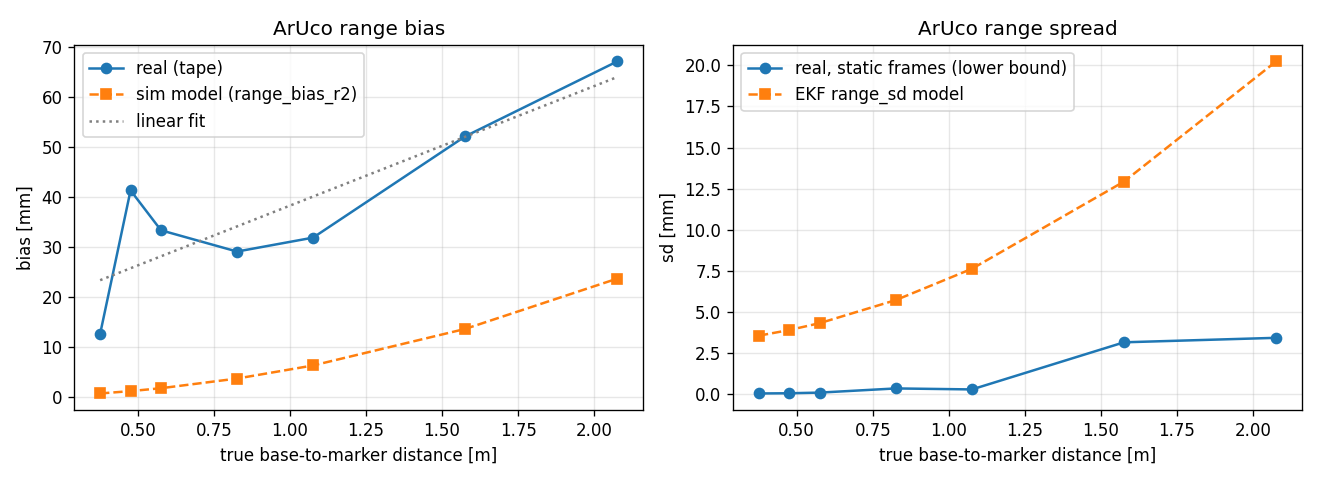
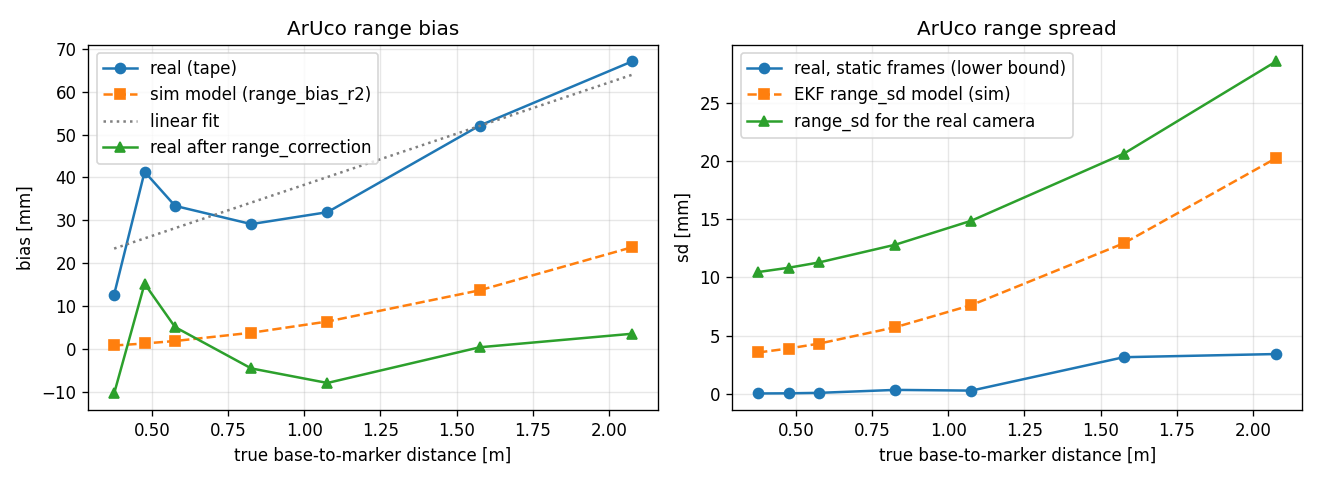
Correct the real camera's ArUco range bias in perception
The real camera reads marker ranges long by about 14 mm + 2.4 % (tape
distances 0.38-2.08 m, results/hardware/aruco_cam*). The fit is stored as
"range_correction" in config/camera_real.json (experiments/aruco_real_noise.py
--write) and removed in aruco.measure, so the EKF and docking both get
corrected ranges (now within +-1 cm of the tape).

- EKF: load_estimation_config(camera=...) sets range_bias_r2 to 0 and uses the
  camera's range_sd when the camera file corrects its own bias (no sim bias
  subtracted twice); main.py passes the camera file.
- IBVS: p* is drawn at the range PnP reads at the true stop range, so the
  robot stops at 0.356 m instead of ~2 cm closer.
- The sim camera file has no range_correction: sim runs are unchanged
  (corridor and lab track dock, control_test and estimation_test pass).

diff --git a/experiments/aruco_real_noise.py b/experiments/aruco_real_noise.py
@@ -1,6 +1,7 @@
 """ArUco range on the real camera against tape-measured distances: bias and noise for the EKF's Rn.
 
-    python experiments/aruco_real_noise.py      # reads results/hardware/aruco_cam<d>m/, marker ID 0
+    python experiments/aruco_real_noise.py           # reads results/hardware/aruco_cam<d>m/, marker ID 0
+    python experiments/aruco_real_noise.py --write   # also stores the range correction in config/camera_real.json
 
 Each folder holds frames saved by capture_frames.py with the robot looking straight at the marker,
 <d> = tape distance from the camera lens to the marker face [m]. The camera is 0.076 m ahead of the base
@@ -11,8 +12,16 @@ The frames at one distance show a static scene, so the sd is pixel noise only an
 the bias across distances is what calibration (K, distortion, printed size) leaves behind.
 A repeat set is a folder with a suffix (aruco_cam0.5m_v2): it is listed too, and the latest set at
 each distance replaces the earlier ones in the fit, the csv and the plot.
+The bias is fitted on the raw PnP range (measure without a correction) as bias_m + bias_per_m * x_true,
+and the range sd for the EKF as a + b r^2: a = the rms residual of that fit (tape placement and what the
+straight line cannot follow), b = the W3 corner-noise model at 0.3 px (aruco.sigma_range_model; the
+static frames are well below it). --write stores both as "range_correction" in config/camera_real.json;
+aruco.load_range_correction reads it there, so aruco.measure hands corrected ranges to the EKF and docking,
+and models.load_estimation_config(camera=...) swaps in this range sd and drops the sim's range_bias_r2.
+Run it after camera_pitch.py --write (the fit uses T_BC). The sim file has no correction and is unchanged.
 Compares with the sim model in config/estimation.json and writes results/aruco_noise_real.csv / .png.
 """
+import argparse
 import csv
 import json
 import re
@@ -31,14 +40,15 @@ import matplotlib.pyplot as plt                                 # noqa: E402
 from src.perception import aruco, camera                        # noqa: E402
 from src.robot.sim_robot import PROJECT_ROOT                    # noqa: E402
 
+CAMERA_FILE = PROJECT_ROOT / "config" / "camera_real.json"
 CAM_AHEAD = aruco.T_BC.t[0]      # 0.076 m, camera ahead of the base origin
 
 
-def measure_folder(folder, K, dist, T_BC):
+def measure_folder(folder, K, dist, T_BC, range_correction=None):
     rows = []
     for p in sorted(folder.glob("*.png")):
         rgb = cv2.cvtColor(cv2.imread(str(p)), cv2.COLOR_BGR2RGB)
-        m = aruco.measure(rgb, K, dist, T_BC=T_BC, marker_id=0)
+        m = aruco.measure(rgb, K, dist, T_BC=T_BC, marker_id=0, range_correction=range_correction)
         if m is not None:
             rows.append(dict(x=m["T_BM"].t[0], z=m["T_BM"].t[2], r=m["z"][0], b=np.rad2deg(m["z"][1]),
                              size_px=m["size_px"], ambiguous=m["ambiguous"]))
@@ -46,22 +56,28 @@ def measure_folder(folder, K, dist, T_BC):
 
 
 def main():
-    K, dist, size = camera.load_intrinsics(PROJECT_ROOT / "config" / "camera_real.json")
-    T_BC = aruco.load_T_BC(PROJECT_ROOT / "config" / "camera_real.json")   # with the fitted tilt, if any
+    ap = argparse.ArgumentParser(description="ArUco range bias and noise of the real camera against tape distances.")
+    ap.add_argument("--write", action="store_true",
+                    help="store the bias fit and range sd as range_correction in config/camera_real.json")
+    args = ap.parse_args()
+
+    K, dist, size = camera.load_intrinsics(CAMERA_FILE)
+    T_BC = aruco.load_T_BC(CAMERA_FILE)                         # with the fitted tilt, if any
     est = json.loads((PROJECT_ROOT / "config" / "estimation.json").read_text())
-    table = []
+    table, folders = [], {}
     for folder in PROJECT_ROOT.glob("results/hardware/aruco_cam*"):
         match = re.fullmatch(r"aruco_cam([\d.]+)m(?:_(\w+))?", folder.name)
         if match is None:
             continue
         d, tag = float(match.group(1)), match.group(2) or ""
         n = len(list(folder.glob("*.png")))
-        rows = measure_folder(folder, K, dist, T_BC)
+        rows = measure_folder(folder, K, dist, T_BC)            # raw PnP range: no correction
         if not rows:
             table.append(dict(d_cam=d, set=tag, frames=n, detected=0))
             continue
         x, r, b = (np.array([q[k] for q in rows]) for k in ("x", "r", "b"))
         x_true = d + CAM_AHEAD
+        folders[(d, tag)] = folder
         table.append(dict(d_cam=d, set=tag, x_true=x_true, frames=n, detected=len(rows),
                           x_bias_mm=1000 * (x.mean() - x_true), x_bias_pct=100 * (x.mean() - x_true) / x_true,
                           range_sd_mm=1000 * r.std(ddof=1) if len(r) > 1 else np.nan,
@@ -86,8 +102,23 @@ def main():
     xt = np.array([t["x_true"] for t in good])
     bias = np.array([t["x_bias_mm"] for t in good]) / 1000
     c_lin, c0 = np.polyfit(xt, bias, 1)
-    print(f"\nbias fit: {1000 * c0:.1f} mm + {100 * c_lin:.2f} % of range"
+    resid = bias - (c0 + c_lin * xt)
+    sd_a = float(np.sqrt(np.sum(resid ** 2) / (len(xt) - 2)))             # rms residual, 2 parameters fitted
+    sd_b = float(aruco.sigma_range_model(1.0, (K[0, 0] + K[1, 1]) / 2))   # W3 model at 0.3 px, per m^2
+    b_static = max(t["range_sd_mm"] / 1000 / t["x_true"] ** 2 for t in good)
+    print(f"\nbias fit: {1000 * c0:.1f} mm + {100 * c_lin:.2f} % of range   (residual rms {1000 * sd_a:.1f} mm)"
           f"   (a constant = tape or lens offset; a % = focal length or printed marker size)")
+    print(f"range sd for the EKF: {1000 * sd_a:.1f} mm + {1000 * sd_b:.1f} mm * r^2   "
+          f"(static frames need only {1000 * b_static:.1f} mm * r^2; sim model "
+          f"{1000 * est['range_sd'][0]:.0f} mm + {1000 * est['range_sd'][1]:.0f} mm * r^2)")
+
+    corr = dict(bias_m=round(float(c0), 4), bias_per_m=round(float(c_lin), 4), range_sd=[round(sd_a, 4), round(sd_b, 4)])
+    print("after the correction (aruco.measure with range_correction), range - x_true:")
+    for t in good:
+        r = np.array([q["r"] for q in measure_folder(folders[(t["d_cam"], t["set"])], K, dist, T_BC, corr)])
+        t["corr_bias_mm"] = 1000 * (r.mean() - t["x_true"])
+        t["real_sd_mm"] = 1000 * (sd_a + sd_b * t["x_true"] ** 2)
+        print(f"  x_true {t['x_true']:.3f} m: {t['corr_bias_mm']:+5.1f} mm   (model sd {t['real_sd_mm']:4.1f} mm)")
 
     out = PROJECT_ROOT / "results" / "aruco_noise_real.csv"
     with open(out, "w", newline="") as f:
@@ -98,9 +129,11 @@ def main():
     a0.plot(xt, 1000 * bias, "o-", label="real (tape)")
     a0.plot(xt, [t["sim_bias_mm"] for t in good], "s--", label="sim model (range_bias_r2)")
     a0.plot(xt, 1000 * (c0 + c_lin * xt), ":", color="0.5", label="linear fit")
+    a0.plot(xt, [t["corr_bias_mm"] for t in good], "^-", label="real after range_correction")
     a0.set(xlabel="true base-to-marker distance [m]", ylabel="bias [mm]", title="ArUco range bias")
     a1.plot(xt, [t["range_sd_mm"] for t in good], "o-", label="real, static frames (lower bound)")
-    a1.plot(xt, [t["sim_sd_mm"] for t in good], "s--", label="EKF range_sd model")
+    a1.plot(xt, [t["sim_sd_mm"] for t in good], "s--", label="EKF range_sd model (sim)")
+    a1.plot(xt, [t["real_sd_mm"] for t in good], "^-", label="range_sd for the real camera")
     a1.set(xlabel="true base-to-marker distance [m]", ylabel="sd [mm]", title="ArUco range spread")
     for a in (a0, a1):
         a.grid(alpha=0.3)
@@ -108,6 +141,19 @@ def main():
     fig.tight_layout()
     fig.savefig(out.with_suffix(".png"), dpi=120)
     print(f"wrote {out.relative_to(PROJECT_ROOT)} and {out.with_suffix('.png').relative_to(PROJECT_ROOT)}")
+
+    if args.write:
+        data = json.loads(CAMERA_FILE.read_text())
+        data["range_correction"] = {
+            **corr,
+            "_doc": f"ArUco range bias of this camera, base origin to marker centre: r_meas = r_true + bias_m + "
+                    f"bias_per_m * r_true; aruco.measure returns r_true. range_sd = [a, b]: EKF range sd a + b r^2 "
+                    f"[m] for the corrected range (a = fit residual rms, b = W3 model at 0.3 px); it replaces "
+                    f"range_sd, and range_bias_r2 becomes 0, in config/estimation.json. Fitted by "
+                    f"experiments/aruco_real_noise.py from {len(xt)} tape distances {xt.min():.2f}-{xt.max():.2f} m "
+                    f"with this file's K and T_BC, residual rms {1000 * sd_a:.1f} mm"}
+        CAMERA_FILE.write_text(json.dumps(data, indent=2))
+        print(f"wrote range_correction into {CAMERA_FILE.relative_to(PROJECT_ROOT)}")
 
 
 if __name__ == "__main__":

diff --git a/src/perception/aruco.py b/src/perception/aruco.py
@@ -40,6 +40,15 @@ def load_T_BC(path):
     return T_BC if data is None else camera_pose(data["xyz"], data["pitch_deg"])
 
 
+def load_range_correction(path):
+    """The camera's ArUco range bias stored with the intrinsics ("range_correction": {"bias_m", "bias_per_m",
+    "range_sd"}, written by experiments/aruco_real_noise.py --write for the real camera), for measure();
+    None when the file has none (the sim: the range stays as PnP gives it)."""
+    import json
+    from pathlib import Path
+    return json.loads(Path(path).read_text()).get("range_correction")
+
+
 def marker_image(marker_id=MARKER_ID, px=600, pad=60, dictionary=ARUCO_DICT):
     """An ArUco marker as a greyscale image with a white quiet zone (W3 Part E marker_image)."""
     tag = cv2.aruco.generateImageMarker(cv2.aruco.getPredefinedDictionary(dictionary), marker_id, px)
@@ -83,7 +92,8 @@ def marker_pose(corners, K, dist, side=MARKER_SIDE):
     return [(SE3.Rt(cv2.Rodrigues(r)[0], t.ravel()), float(e)) for e, r, t in sols]
 
 
-def measure(rgb, K, dist, T_BC=T_BC, side=MARKER_SIDE, marker_id=MARKER_ID, ambiguity_ratio=0.1):
+def measure(rgb, K, dist, T_BC=T_BC, side=MARKER_SIDE, marker_id=MARKER_ID, ambiguity_ratio=0.1,
+            range_correction=None):
     """The marker measurement for the EKF, or None when the marker is not seen.
 
     z = [range, bearing]: from the base origin to the marker centre, in the floor plane of {B}.
@@ -96,6 +106,9 @@ def measure(rgb, K, dist, T_BC=T_BC, side=MARKER_SIDE, marker_id=MARKER_ID, ambi
     With 0.1, trusted yaws were within 0.5 deg (95th percentile) and flagged ones off by up to 16 deg
     in the sweep of evaluation/check_camera.py. Seen square on, it was flagged at most distances beyond
     0.25 m; seen 30 deg off the normal, it was trusted at every distance tested (0.3-1.4 m).
+    range_correction (load_range_correction, the real camera): the PnP range reads r_true + bias_m +
+    bias_per_m * r_true, so the range in z is (r - bias_m) / (1 + bias_per_m). Only z[0] changes: T_BM
+    and T_CM stay the PnP pose, the bearing and yaw are not affected. None (the sim) = no change.
     """
     corners = detect(rgb, marker_id)
     if corners is None:
@@ -105,7 +118,10 @@ def measure(rgb, K, dist, T_BC=T_BC, side=MARKER_SIDE, marker_id=MARKER_ID, ambi
     e2 = sols[1][1] if len(sols) > 1 else np.inf
     T_BM = T_BC * T_CM
     p, n = T_BM.t, T_BM.R[:, 2]
-    return dict(z=np.array([np.hypot(p[0], p[1]), np.arctan2(p[1], p[0])]),
+    r = np.hypot(p[0], p[1])
+    if range_correction is not None:                 # real camera: remove its measured range bias
+        r = (r - range_correction["bias_m"]) / (1 + range_correction["bias_per_m"])
+    return dict(z=np.array([r, np.arctan2(p[1], p[0])]),
                 yaw=float(np.arctan2(n[1], n[0])),
                 ambiguous=bool(e1 > ambiguity_ratio * e2),
                 T_BM=T_BM, T_CM=T_CM, T_CM_alt=sols[1][0] if len(sols) > 1 else None,
@@ -124,7 +140,7 @@ def _label(img, text, org, scale=0.6):
     cv2.putText(img, text, org, cv2.FONT_HERSHEY_SIMPLEX, scale, (255, 255, 255), 1, cv2.LINE_AA)
 
 
-def draw_markers(rgb, K, dist, marker_ids, dock_id=MARKER_ID, T_BC=T_BC, side=MARKER_SIDE):
+def draw_markers(rgb, K, dist, marker_ids, dock_id=MARKER_ID, T_BC=T_BC, side=MARKER_SIDE, range_correction=None):
     """Copy of the frame with every listed marker that is seen. Display only (main.py camera window).
 
     Top left, for every marker seen (ID 0, 1, 2): the z = [range, bearing] in {B} that measure() hands
@@ -135,7 +151,7 @@ def draw_markers(rgb, K, dist, marker_ids, dock_id=MARKER_ID, T_BC=T_BC, side=MA
     bgr = cv2.cvtColor(rgb, cv2.COLOR_RGB2BGR)
     lines = []
     for mid in marker_ids:
-        meas = measure(rgb, K, dist, T_BC=T_BC, side=side, marker_id=mid)
+        meas = measure(rgb, K, dist, T_BC=T_BC, side=side, marker_id=mid, range_correction=range_correction)
         if meas is None:
             continue
         corners = meas["corners"]

diff --git a/main.py b/main.py
@@ -57,7 +57,7 @@ def parse_args(argv=None):
     return ap.parse_args(argv)
 
 
-def camera_window(K, dist, marker_ids, dock_id=0, T_BC=None):
+def camera_window(K, dist, marker_ids, dock_id=0, T_BC=None, range_correction=None):
     """on_step hook for run_mission: show the robot camera with the markers it sees.
 
     It only calls robot.read_image(), the same sensor read the robot's own code uses. The docking
@@ -74,7 +74,8 @@ def camera_window(K, dist, marker_ids, dock_id=0, T_BC=None):
         if t_frame == last["t"]:
             return
         last["t"] = t_frame
-        img = aruco.draw_markers(rgb, K, dist, marker_ids, dock_id=dock_id, T_BC=T_BC if T_BC is not None else aruco.T_BC)
+        img = aruco.draw_markers(rgb, K, dist, marker_ids, dock_id=dock_id, T_BC=T_BC if T_BC is not None else aruco.T_BC,
+                                 range_correction=range_correction)
         cv2.imshow("robot camera", cv2.cvtColor(img, cv2.COLOR_RGB2BGR))
         cv2.waitKey(1)
 
@@ -96,6 +97,7 @@ def main(argv=None):
     from src.control.behaviour import run_mission
     from src.control.models import load_control_config
     from src.estimation.ekf import EKF
+    from src.estimation.models import load_estimation_config
     from src.perception import camera
     from src.robot.corridor import load_task
 
@@ -117,7 +119,9 @@ def main(argv=None):
         print(describe(sc))
         task, case, label = sc["task"], "none", f"random seed {args.seed}"   # boxes come from the scenario
         setup = lambda robot: apply_world(robot, sc["world"])              # noqa: E731  (sim side only)
-    estimator = None if args.odometry else EKF(task["start"], marker_map=task["markers"])
+    # the camera file decides the range model: the real one corrects its own bias (no sim range_bias_r2 on top)
+    estimator = None if args.odometry else EKF(task["start"], marker_map=task["markers"],
+                                               params=load_estimation_config(camera=intrinsics))
     from src.robot.corridor import apply_control_overrides
     cfg = apply_control_overrides(load_control_config(), task)   # a task file may tune the controller
     if args.dock:
@@ -129,7 +133,7 @@ def main(argv=None):
         from src.perception import aruco
         K, dist, _ = camera.load_intrinsics(intrinsics)
         on_step = camera_window(K, dist, sorted(task["markers"]), task["dock"]["marker_id"],
-                                T_BC=aruco.load_T_BC(intrinsics))
+                                T_BC=aruco.load_T_BC(intrinsics), range_correction=aruco.load_range_correction(intrinsics))
 
     print(f"{label}, steering on {'odometry' if args.odometry else 'the EKF'}, docking {cfg['docking']['servo']}, "
           f"seed {args.seed}{', headless' if args.headless else ''}")

diff --git a/src/control/behaviour.py b/src/control/behaviour.py
@@ -198,7 +198,9 @@ def run_mission(case="centre", seed=0, t_max=180.0, verbose=True, estimator=None
     robot: the robot to drive, default the corridor SimRobot for the case; main.py --real passes a
     RealRobot (src/robot/real_robot.py), which the with block connects and stops. view needs a SimRobot.
     intrinsics: camera calibration for the ArUco measurements (default config/camera_sim.json); its
-    optional "T_BC" (the real camera's tilt, experiments/camera_pitch.py) replaces the URDF camera pose.
+    optional "T_BC" (the real camera's tilt, experiments/camera_pitch.py) replaces the URDF camera pose,
+    and its optional "range_correction" (the real camera's range bias, experiments/aruco_real_noise.py)
+    is removed from every ArUco range, so the EKF and docking both get corrected ranges.
     """
     import contextlib
     import time
@@ -210,8 +212,10 @@ def run_mission(case="centre", seed=0, t_max=180.0, verbose=True, estimator=None
     task = task if task is not None else load_task()
     label = label or case
     nav = NavigationController(task, cfg=cfg)
-    K_cam, dist, _ = camera.load_intrinsics(intrinsics or PROJECT_ROOT / "config" / "camera_sim.json")
-    T_BC = aruco.load_T_BC(intrinsics or PROJECT_ROOT / "config" / "camera_sim.json")   # real camera: with its tilt
+    intrinsics = intrinsics or PROJECT_ROOT / "config" / "camera_sim.json"
+    K_cam, dist, _ = camera.load_intrinsics(intrinsics)
+    T_BC = aruco.load_T_BC(intrinsics)                        # real camera: with its tilt
+    range_corr = aruco.load_range_correction(intrinsics)      # real camera: its range bias; sim: None
     est = estimator or DeadReckoning(task["start"])           # start prior from the config, not the truth
     marker_ids = [0] if estimator is None else sorted(task["markers"])   # the EKF wants every known marker
     with (robot if robot is not None else make_robot(case, seed=seed)) as robot, contextlib.ExitStack() as stack:
@@ -236,7 +240,7 @@ def run_mission(case="centre", seed=0, t_max=180.0, verbose=True, estimator=None
                 if t_frame != t_last_frame:                   # run ArUco once per NEW frame
                     markers = {}
                     for mid in marker_ids:
-                        m = aruco.measure(rgb, K_cam, dist, T_BC=T_BC, marker_id=mid)
+                        m = aruco.measure(rgb, K_cam, dist, T_BC=T_BC, marker_id=mid, range_correction=range_corr)
                         if m is not None:
                             markers[mid] = {"z": m["z"], "R": np.diag([0.005**2, np.deg2rad(1.0)**2]),
                                             "yaw": m["yaw"], "ambiguous": m["ambiguous"],

diff --git a/src/control/docking.py b/src/control/docking.py
@@ -69,13 +69,18 @@ class DockingController:
         self.servo = self.p.get("servo", "pbvs")
         if self.servo == "ibvs":
             T_BC = vs.aruco.T_BC                             # URDF camera pose, unless the file has one
+            p_star_range = self.stop_range
             if K is None:
                 from src.perception import camera
                 K, dist, _ = camera.load_intrinsics(PROJECT_ROOT / self.p["camera_intrinsics"])
                 T_BC = vs.aruco.load_T_BC(PROJECT_ROOT / self.p["camera_intrinsics"])   # real camera: its tilt
+                corr = vs.aruco.load_range_correction(PROJECT_ROOT / self.p["camera_intrinsics"])
+                if corr is not None:   # real camera: the ranges here are corrected, but the corners are raw, so
+                    # p* is drawn at the range PnP reads at the true stop range (else IBVS aims ~2 cm closer)
+                    p_star_range = corr["bias_m"] + (1 + corr["bias_per_m"]) * self.stop_range
             self.K, self.dist = np.asarray(K, float), np.asarray(dist, float)
             marker_height = marker[2] if marker.size > 2 else 0.12
-            self.p_star = vs.desired_features(self.K, self.stop_range, marker_height, T_BC=T_BC)
+            self.p_star = vs.desired_features(self.K, p_star_range, marker_height, T_BC=T_BC)
             self.G = vs.robot_to_camera(T_BC)
         self.phase, self.stop_reason = None, None
         self.ibvs_log = []                                   # (t, corners 2x4, e_rms px, v, w) per IBVS step

diff --git a/src/estimation/models.py b/src/estimation/models.py
@@ -44,9 +44,19 @@ from src.robot.sim_robot import PROJECT_ROOT, WHEEL_SEPARATION  # noqa: E402
 ESTIMATION_CONFIG = PROJECT_ROOT / "config" / "estimation.json"
 
 
-def load_estimation_config(path=ESTIMATION_CONFIG):
-    """The EKF tuning as a dict (config/estimation.json)."""
-    return json.loads(Path(path).read_text())
+def load_estimation_config(path=ESTIMATION_CONFIG, camera=None):
+    """The EKF tuning as a dict (config/estimation.json).
+
+    camera: the intrinsics file the ArUco ranges come from. When it has its own "range_correction" (the
+    real camera, experiments/aruco_real_noise.py), aruco.measure has already removed that bias, so
+    range_bias_r2 (the sim camera's bias) becomes 0, not subtracted twice, and range_sd is the camera's.
+    The sim file has none: the config is returned unchanged.
+    """
+    cfg = json.loads(Path(path).read_text())
+    corr = None if camera is None else json.loads(Path(camera).read_text()).get("range_correction")
+    if corr is not None:
+        cfg["range_bias_r2"], cfg["range_sd"] = 0.0, list(corr["range_sd"])
+    return cfg
 
 
 # ---------------------------------------------------------------- motion
